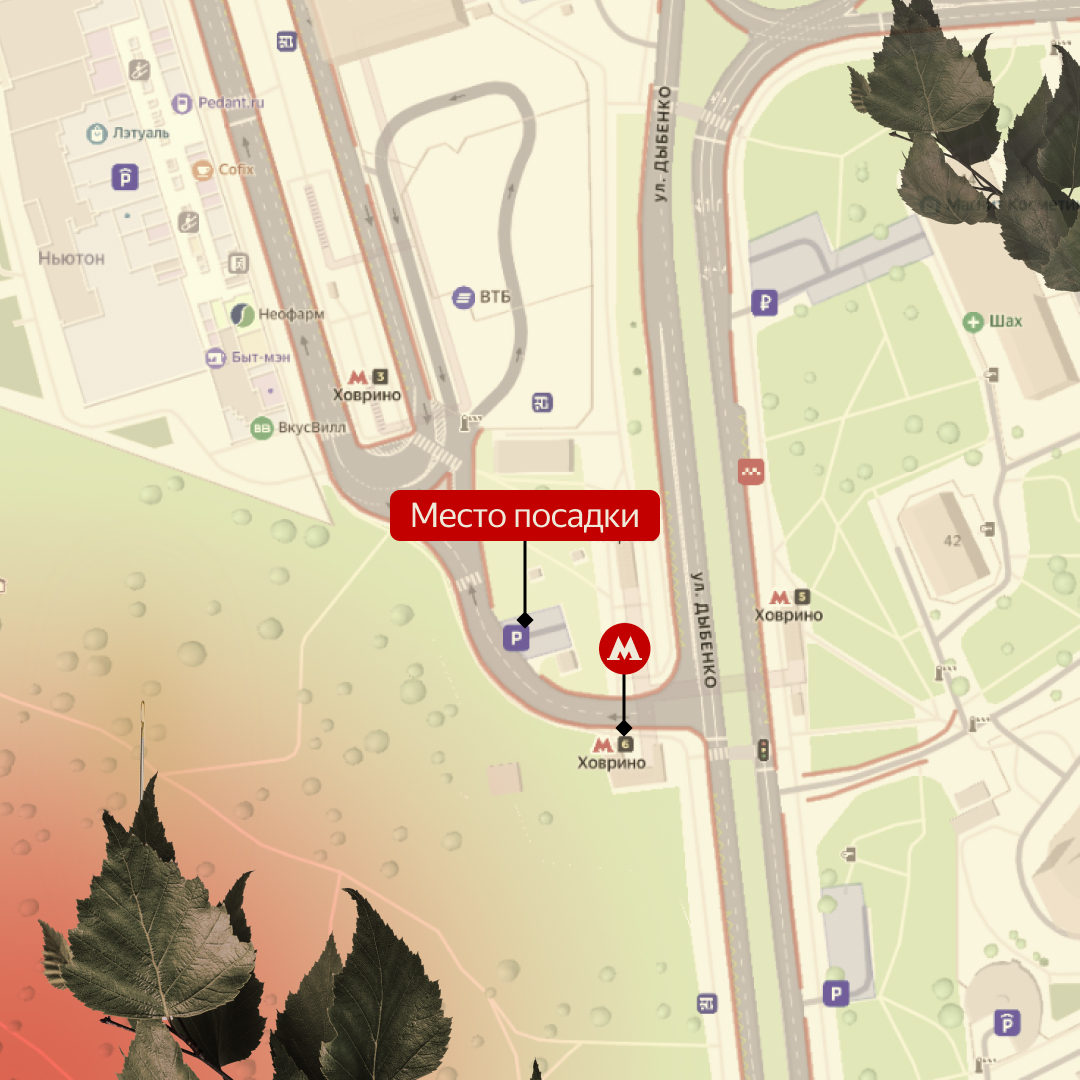
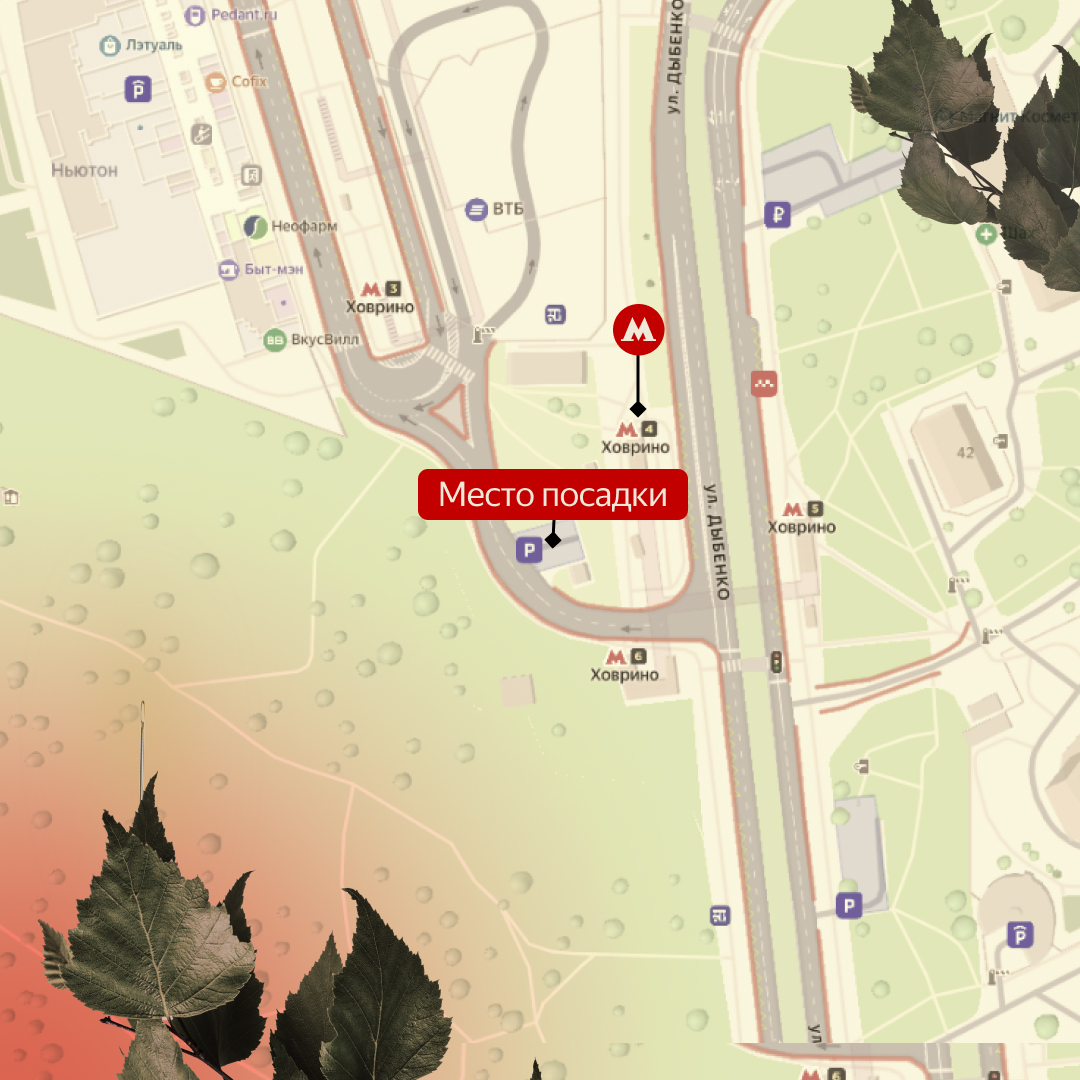
Update high-resolution map URL in transfer handler and replace associated media file

diff --git a/src/tgbot/handlers/transfer.py b/src/tgbot/handlers/transfer.py
@@ -21,7 +21,7 @@ async def transfer(callback, state, text, media):
 
     kb = InlineKeyboardBuilder()
     kb.button(text="📍 Я.Карты", url="https://yandex.ru/maps/-/CHtbR2kH")
-    kb.button(text="🔍 Высокое разрешение", url="https://clck.ru/3Ng96j")
+    kb.button(text="🔍 Высокое разрешение", url="https://clck.ru/3NiErq")
     kb.button(text=text.back, callback_data="main")
     kb.adjust(1)
 
